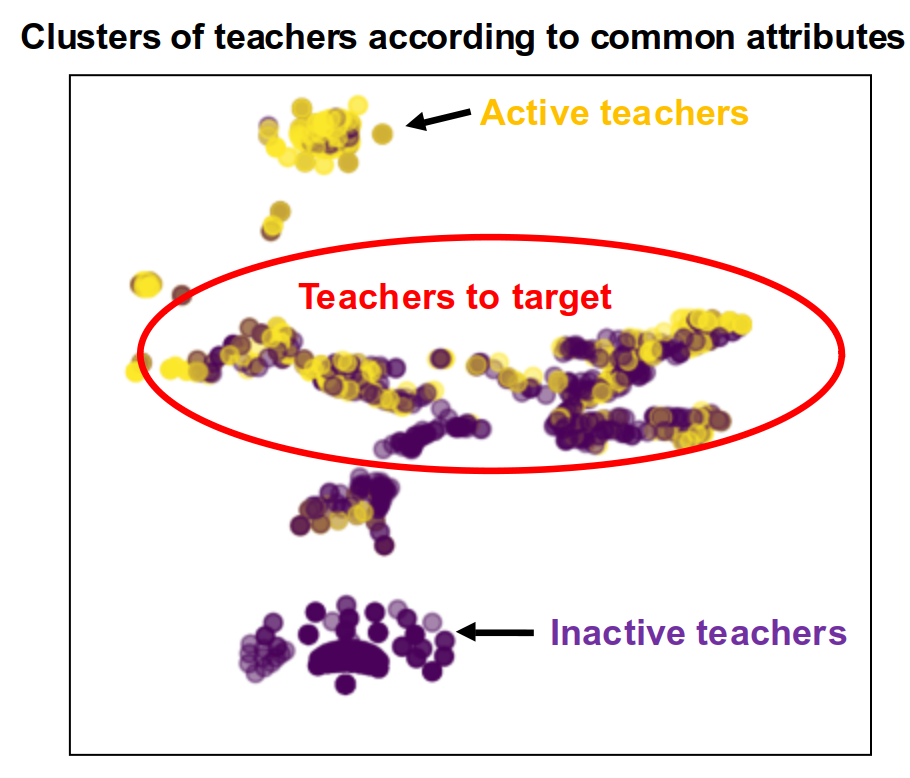
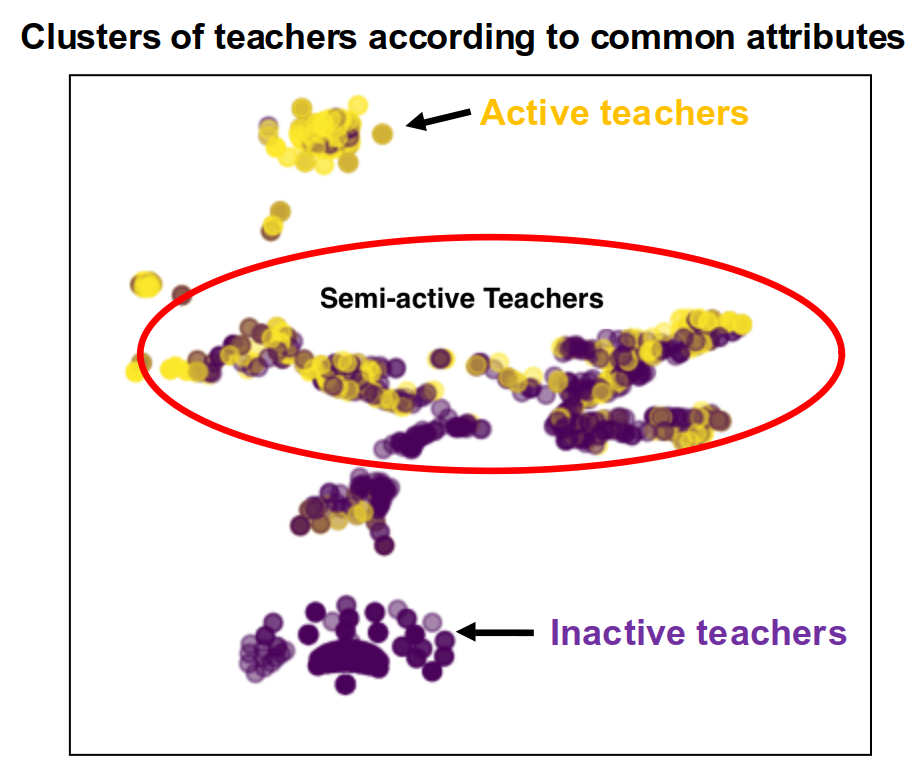
Editting article

Changed region(s): [[0.3385, 0.3393, 0.6769, 0.401]]

diff --git a/_posts/2020-01-25-churn-predictions.md b/_posts/2020-01-25-churn-predictions.md
@@ -8,42 +8,47 @@ seo:
   date_modified: 2020-01-25 17:13:24 +0000
 ---
 
-Happy 2020! When thinking about my next blog post, I thought that it would be good to talk about my time as a data scientist in Isaac Physics. When I was there, we did some cool stuff in trying to define and solve open-ended problems, and found that with simple machine learning algorithms, we were able to do a lot! Having a structured and clean data source like they had can really take you far. 
+Happy 2020! In this blog post, I will take you through one of the problems that we tackled during my time as a data scientist with the online educational platform [Isaac Physics](https://www.isaacphysics.org). Here we used machine learning to predict the likelihood of user churn (i.e. whether a given user will continue using the platform or will stop using it altogether). With simple ML algorithms, we were able to do a lot, and much of the success boiled down to the clean and structured data repository of clickstream data that IP had. 
 
 # Introduction 
 
-To those of you who don't know, Isaac Physics (IP) is an online educational platform that aims to improve STEM education throughout the country by providing students with the free resources needed to consolidate their understanding of Physics and Mathematics. Check out their slick website at www.isaacphysics.org.
+In a nutshell, Isaac Physics (IP) is an online educational platform that aims to improve STEM education throughout the UK by providing students with the free resources needed to consolidate their understanding of Physics and Mathematics. Check out their slick website at <https://www.isaacphysics.org>.
 
 ![Alt Text](https://keepfloyding.github.io/images/IP_website.png)
 
 # Data-driven Research: Problem of User Churn
 
-Over the last few years, IP has received over 60,000 registered users and has recorded over 8 million question attempts. What I was most impressed with, is that all of this clickstream data was captured in a structured and easy to read manner in a SQL table. This made data easy to query and explore. Now one of the challenges that we faced was to define a problem that we could attempt to solve with our data science tools. We decided to try to tackle a problem that is endemic to many online platforms, the issue of user retention. After registration, 30% of users never returned to the platform after one month of activity. 
+Over the last few years, IP has received over 60,000 registered users and recorded over 8 million question attempts. I was most impressed with the structured, effective and easy to read manner that the clickstream data was captured in (SQL for the win!). IP really have an excellent team of software developers and data engineers who made the data easy to query and explore. Another thing that made IP so great to work for, was their open-ended nature. We could define and attempt to solve any problem that we thought was worth tackling. The sky was the limit. Our first challenge? To tackle a problem that is endemic to many online platforms, the issue of user retention. More precisely, the nightmare of losing 30% of users following registration after only one month of activity. 
 
 ![Alt Text](https://keepfloyding.github.io/images/IP_user_retention.png)
 
-Now I initially thought that with the clickstream data that we had at hand, that we would be able to easily determine who were the users likely to stop using the platform. However, it is much harder than I thought. For instance, you can see that those users who do a lot of question attempts aren't necessarily going to stay on the platform. 
+Now initially, I thought that with the clickstream data at hand, we would easily determine who were the users likely to stop using the platform. For instance, you would imagine that a user who attempts a lot of questions and engages with the website would naturally stay on the platform for longer. Conversely, a user who attempts only a few questions, seems to have a limited interest in using the website and hence will probably stop using it sooner rather than later. Ohh how naive I was! The image below shows the behaviour of 2 separate users after registration. The red line marks a user who did a lot of questions in the first month and then permanently left the platform. The black line on the other hand indicates a user who does only a few question attempts, but consistently uses the platform every month. How can we determine who will stay and who will leave? The secret in developing a successful churn predictor is to know your audience. In machine learning terms, it's all about feature engineering (i.e. designing and selecting the best input features for your ML model). For us, that meant accounting for the behaviour and activity of teachers on the IP website. 
 
 ![Alt Text](https://keepfloyding.github.io/images/IP_QA.png)
 
-# Importance of Teachers
+# Feature Engineering: The Importance of Teachers
 
-An important additional feature of the IP platform is the ability of teachers to enroll their pupils and to set homework problems for them to complete. The teachers can track the progress of their pupils and identify if there are any problems in understanding any of the content matter. On IP, this means that we can do more feature engineering for each user by not only determining their own clickstream data, but also incorporating the clickstream data of their teachers. 
+An important feature of the platform is the ability of teachers to enroll their pupils and to set homework problems for them to complete. The teachers can track the progress of their pupils and identify if there are any problems in understanding the content matter. What does this mean for our churn model? This meant that we should not only engineer features related to the activity of the user, but also to the clickstream data of their teachers. 
 
 ![Alt Text](https://keepfloyding.github.io/images/IP_teacher_features.png)
 
-Using these newly identified features, we were capable of determining with an 87% accuracy whether a user would stay on the platform or leave using a Random Forest Classifier. A strong advantage in using this algorithm lies in its ability to determine the strength of each feature in calculating user churn. It was clear, that the key features involved were those affiliated with the teacher rather than the user. This means that the teachers are the stars of the show and are instrumental in ensuring that students keep on using the IP platform.
+Using these newly identified features, we were capable of determining with an 87% accuracy whether a user would stay on the platform or leave using a good ol' Random Forest Classifier. A strong advantage in using this algorithm lies in its ability to determine the strength of each feature in calculating user churn. It was clear that the key features involved in identifying user churn were those affiliated with the teacher rather than the user. This means that the teachers are the stars of the show and are instrumental in ensuring that students keep on using the IP platform.
 
 ![Alt Text](https://keepfloyding.github.io/images/IP_ML_results.png)
 
 # Feeding Insight into Action
 
-So what can we do with this information? It is clear that by ensuring the co-operation of the teachers, that we can encourage the pupils to actively use the platform. With the teacher features that we determined, and using unsupervised learning algorithms, we can identify which teachers are likely to be inactive. These teachers can then be offered help in learning how best to use the platform to help teach their pupils basic scientific knowledge. 
+So we built a user churn model and identified the dominant factors that drive its behaviour. What next? The key outcome of any data science project is to feed insight into action. From the model, it is clear that by ensuring the co-operation of the teachers, we can encourage the pupils to actively continue using the platform. So how do we identify which teachers are likely to stop using the platform (and hence indirectly influence their students to stop using it as well)? Using the features that we engineered to represent teacher activity on the platform, we can use an unsupervised ML algorithm to group them into 3 distinct groups (those that actively use the website, those that were never likely to use it and those somewhere in the middle). This group in the middle corresponds to both active and inactive teachers, the latter of which can be invited to attend workshops organised by IP to help them better understand how they can leverage the platform in their teaching. In this way, we can hope to actively encourage some of the inactive teachers to use the platform and thereby encourage their pupils to use it as well. 
 
 ![Alt Text](https://keepfloyding.github.io/images/IP_unsuper.png)
 
-IP runs teacher workshops to help teachers better use the platforms. Now with data science and machine learning, they can help users to better benefit from their platform and increase interest in STEM subjects nationwide. 
+# Lessons Learned
 
+My time in IP was a great experience in applying machine learning and data science to solve important, real-world problems. In this case, we were helping to drive education and interest in STEM subjects nationwide to offer new opportunities to more and more young adults. Here are a few takeaways from this project:
+
+* Know your audience! The importance of domain knowledge cannot be overstated, and some of the success of this project boiled down to effective feature engineering.
+* SQL is king. Having a structured and easy to query data repository makes it that much easier for data exploration and obtaining an intimate knowledge of your dataset. Hats off to the incredible team at Isaac Physics for making this happen. 
+* Open-ended problem solving is challenging but super rewarding. Not having a definite problem to solve a la Kaggle style can seem intimidating at first, but it reaps rewards in growing as a data scientist. 
 
 
 
